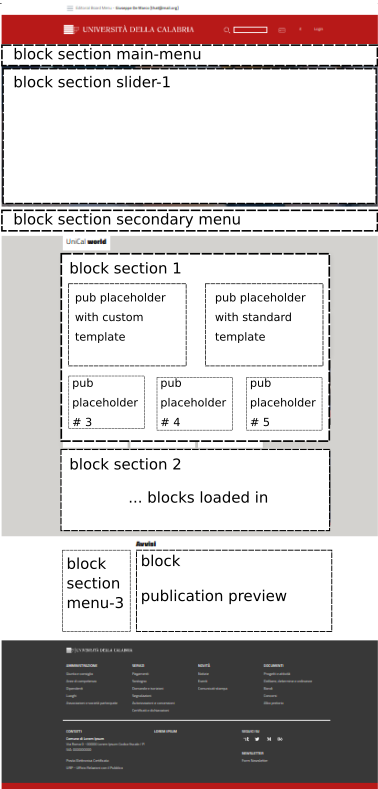
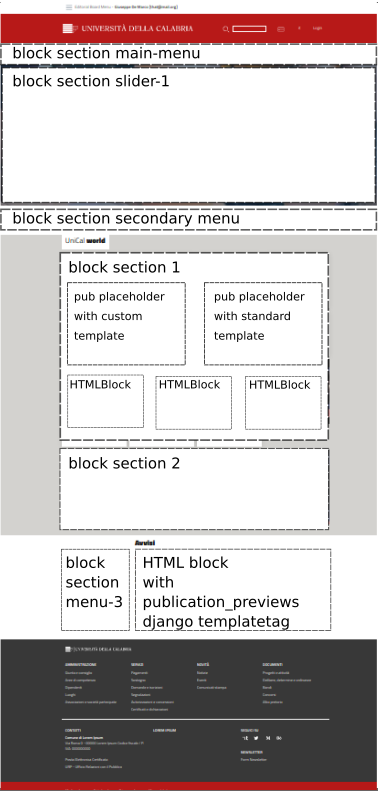
Documentation

Changed region(s): [[0.0, 0.0, 1.0, 1.0]]

diff --git a/docs/source/contents/how_it_works.rst b/docs/source/contents/how_it_works.rst
@@ -49,19 +49,51 @@ Pages, Blocks and Placeholders
 
 Pages inherit Template Pages, these latter have a base html template file and 
 a bunch of template blocks. Blocks can be of different kind, like the 
-simplest one, called HTMLBlock that anything is that a Text Field that takes 
-a Django compatible templates. This means that in a HTMLBlock we can load 
+simplest one, called HTMLBlock that's a Text Field that takes 
+a raw html with django's template statements as well. This means that in a HTMLBlock we can load 
 template tags and use Django Template filters and statements.
 
 Furthermore, there are specialized blocks which are none other than 
-HTMLBlock which load django template tags within their content.
+HTMLBlock which load django *templatetags* within their content. Example:
+
+.. code-block:: html
+
+    {% load unicms_blocks %}
+    <div class="row negative-mt-5 mb-3" >
+        <div class="col-12 col-md-3">
+            <div class="section-title-label px-3 py-1">
+                <h3>Unical <span class="super-bold">world</span></h3>
+            </div>
+        </div>
+    </div>
+
+    <div class="row">
+        <div class="col-12 col-lg-9">
+            {% load_publications_preview template="publications_preview_v3.html" %}
+        </div>
+        <div class="col-12 col-lg-3">
+            {% include "unical_portale_agenda.html" %}
+        </div>
+    </div>
+
+
 
 A Page Template would be subdivided in section each of them where a Django 
-templatetag called **load_blocks** will fill contents.
+templatetag called **load_blocks** will fill contents. Example:
 
-Placeholders are a different kind of blocks, each one for many kind of application.
-We have, for example, PublicationPlaceholderBlock that's a block that will be filled 
-by related publication to a page. Let's suppose to distribute 4 pub placeholder in a page, 
+.. code-block:: html
+
+    <!-- Breadcrumbs -->
+    {% block breadcrumbs %}
+        {% load_blocks section="breadcrumbs" %}
+    {% endblock breadcrumbs %}
+    <!-- end Breadcrumbs -->
+
+
+Placeholders are a different kind of blocks, each one for many kind of applications.
+We have, for example, **PublicationPlaceholderBlock** that's a block that will be filled 
+by related publication to a page. Let's suppose to distribute 
+four publication placeholder in a page, 
 and then we configure 4 publication to belong to the same page. Then we'll have
 that each publication will be rendered in the Handler Blocks in this way:
 
@@ -77,4 +109,26 @@ that each publication will be rendered in the Handler Blocks in this way:
 +------------+-----------------+------------------------------+
 
 
+This means that the placeholder space will be filled by the publications 
+related to a page, according to its ordering, the first placeholder 
+will render the first content, the second the second and so on. 
+This approach allows a one-page template designer to arrange placeholders 
+without worrying about what content will be represented there. 
+The page that will inherit this uniCMS template will then define which 
+publications to import, think about the management of a 
+Home Page, where each content is selectively chosen.
+
+A page can have the following childs elements:
+
+- PAGE NAVIGATION BARS 
+- PAGE CAROUSEL 
+- PAGE BLOCK, that extends or disable which inherited from its page template
+- PUBLICATION CONTENTS
+
+
+This is a simplified page subdivided by sections that would show to us 
+how the contents can be distribuited in a Page Template.
+
+
 .. image:: ../images/page_blocks.png
+    :align: center

diff --git a/docs/source/index.rst b/docs/source/index.rst
@@ -41,7 +41,6 @@ give us your feedbacks, we are people who like to share!
    :caption: Introduction
 
    contents/introduction.md
-   contents/why.md
    contents/how_it_works.md
    
 .. toctree::
@@ -63,6 +62,12 @@ give us your feedbacks, we are people who like to share!
    :caption: Developer's
 
    contents/developer.md
+
+.. toctree::
+   :maxdepth: 2
+   :caption: Miscellaneous
+   
+   contents/why.md
 
 
 Indices and tables

diff --git a/docs/source/contents/usage.md b/docs/source/contents/usage.md
@@ -1,5 +1,5 @@
-Common Tasks
-------------
+uniCMS Components
+-----------------
 
 #### Permissions
 
